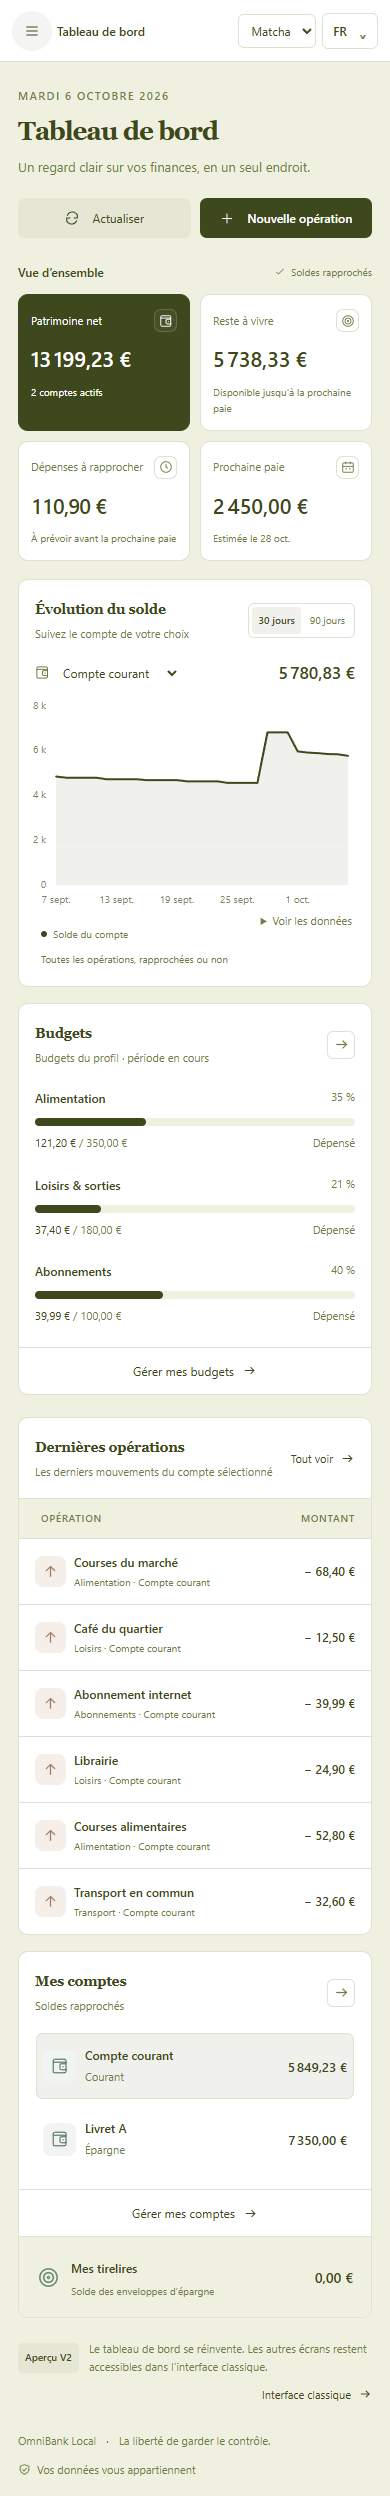
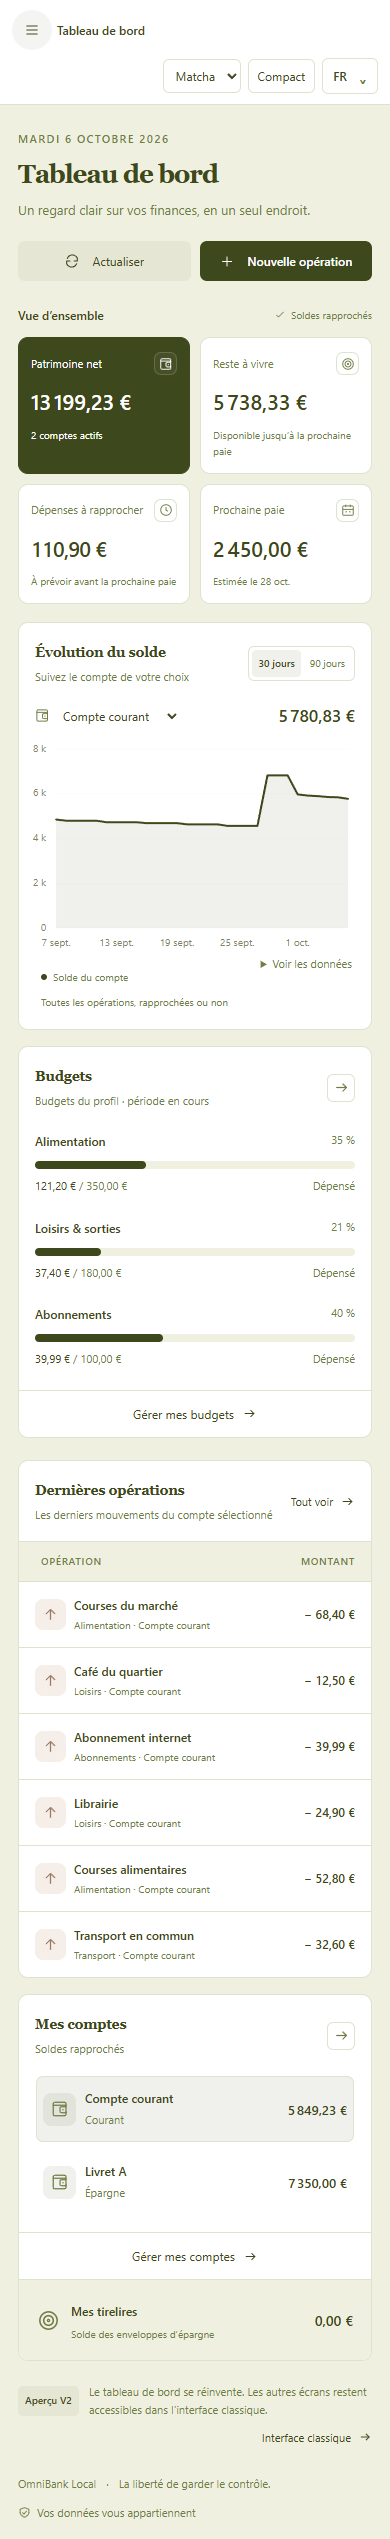
Add six Astryx themes with per-theme compact layout preferences

diff --git a/ui-v2/src/components/Shell.jsx b/ui-v2/src/components/Shell.jsx
@@ -4,16 +4,16 @@ import { Badge } from '@astryxdesign/core/Badge';
 import { Link } from '@tanstack/react-router';
 import { Icon } from './Icon';
 import { useLanguage } from '../lib/i18n';
-import { useAppTheme } from '../lib/theme';
+import { useAppTheme, themeNames } from '../lib/theme';
 import { legacyUrl } from '../lib/api';
 import s from './Shell.module.css';
 
 export function Shell({ children, profile }) {
   const { t, language, setLanguage } = useLanguage();
-  const { name, setTheme } = useAppTheme();
+  const { name, setTheme, compact, toggleCompact } = useAppTheme();
   const [menuOpen, setMenuOpen] = useState(false);
   const links = [['all_operations', 'arrows', 'transactions'], ['accounts', 'wallet', 'accounts'], ['budgets', 'target', 'budgets'], ['analytics', 'chart', 'analytics'], ['recurrences', 'calendar', 'recurrences']];
-  return <div className={s.shell}>
+  return <div className={s.shell} data-ui-density={compact ? 'compact' : 'comfortable'}>
     <a className={s.skip} href="#main">{t('skip')}</a>
     {menuOpen && <button className={s.backdrop} aria-label={t('close_menu')} onClick={() => setMenuOpen(false)} />}
     <aside className={`${s.sidebar} ${menuOpen ? s.open : ''}`} aria-label={t('navigation')}>
@@ -37,7 +37,7 @@ export function Shell({ children, profile }) {
     <div className={s.main}>
       <header className={s.topbar}>
         <div className={s.breadcrumb}><Button className={s.menu} label={menuOpen ? t('close_menu') : t('open_menu')} isIconOnly icon={<Icon name={menuOpen ? 'close' : 'menu'}/>} onClick={() => setMenuOpen(!menuOpen)} aria-expanded={menuOpen}/><span>{t('workspace')}</span><Icon name="chevron" size={13}/><strong>{t('dashboard')}</strong></div>
-        <div className={s.topActions}><select className={s.theme} aria-label={t('theme')} value={name} onChange={event => setTheme(event.target.value)}><option value="matcha">Matcha</option><option value="neutral">{t('theme_neutral')}</option></select><Badge label={t('beta')} variant="neutral"/><span className={s.local}><i/>{t('local_storage')}</span><button className={s.lang} onClick={() => setLanguage(language === 'fr' ? 'en' : 'fr')} aria-label={t('change_language')}>{language.toUpperCase()} <span>⌄</span></button></div>
+        <div className={s.topActions}><select className={s.theme} aria-label={t('theme')} value={name} onChange={event => setTheme(event.target.value)}>{themeNames.map(theme => <option key={theme} value={theme}>{theme === 'neutral' ? t('theme_neutral') : theme === 'y2k' ? 'Y2K' : theme[0].toUpperCase() + theme.slice(1)}</option>)}</select><button className={s.density} aria-pressed={compact} onClick={toggleCompact}>{t('compact')}</button><Badge label={t('beta')} variant="neutral"/><span className={s.local}><i/>{t('local_storage')}</span><button className={s.lang} onClick={() => setLanguage(language === 'fr' ? 'en' : 'fr')} aria-label={t('change_language')}>{language.toUpperCase()} <span>⌄</span></button></div>
       </header>
       <main id="main" className={s.content}>{children}</main>
       <footer className={s.footer}><span>OmniBank Local <span>·</span> {t('footer')}</span><span><Icon name="shield" size={13}/>{t('private')}</span></footer>

diff --git a/ui-v2/src/lib/theme.jsx b/ui-v2/src/lib/theme.jsx
@@ -5,13 +5,38 @@ import { neutralTheme } from '@astryxdesign/theme-neutral/built';
 import '@astryxdesign/theme-matcha/theme.css';
 import '@astryxdesign/theme-neutral/theme.css';
 
-const themes = { matcha: matchaTheme, neutral: neutralTheme };
+import { stoneTheme } from '@astryxdesign/theme-stone/built';
+import '@astryxdesign/theme-stone/theme.css';
+
+import { gothicTheme } from '@astryxdesign/theme-gothic/built';
+import '@astryxdesign/theme-gothic/theme.css';
+
+import { y2kTheme } from '@astryxdesign/theme-y2k/built';
+import '@astryxdesign/theme-y2k/theme.css';
+
+import { butterTheme } from '@astryxdesign/theme-butter/built';
+import '@astryxdesign/theme-butter/theme.css';
+
+const themes = { neutral: neutralTheme, stone: stoneTheme, gothic: gothicTheme, matcha: matchaTheme, y2k: y2kTheme, butter: butterTheme };
+export const themeNames = Object.keys(themes);
 const ThemeContext = createContext(null);
 export function ThemeProvider({ children }) {
   const [name, setName] = useState(() => {
     const saved = localStorage.getItem('omni_v2_theme');
     return Object.hasOwn(themes, saved) ? saved : 'matcha';
   });
+  const [compactThemes, setCompactThemes] = useState(() => {
+    try {
+      const saved = JSON.parse(localStorage.getItem('omni_v2_compact_themes') || '{}');
+      return Object.fromEntries(themeNames.map(key => [key, saved?.[key] === true]));
+    } catch { return {}; }
+  });
+  const compact = compactThemes[name] === true;
+  function toggleCompact() {
+    const next = { ...compactThemes, [name]: !compact };
+    localStorage.setItem('omni_v2_compact_themes', JSON.stringify(next));
+    setCompactThemes(next);
+  }
   function setTheme(value) {
     if (!Object.hasOwn(themes, value)) return;
     localStorage.setItem('omni_v2_theme', value);
@@ -19,8 +44,9 @@ export function ThemeProvider({ children }) {
   }
   const theme = themes[name];
   // Charts receive resolved light palette values; Astryx consumes its own tokens.
-  const accent = theme.tokens['--color-accent'].match(/#[0-9a-f]{6}/i)[0];
-  const border = theme.tokens['--color-border'].match(/#[0-9a-f]{6}/i)[0];
-  return <Theme theme={theme} mode="light"><ThemeContext.Provider value={{ name, setTheme, accent, border }}>{children}</ThemeContext.Provider></Theme>;
+  const color = key => theme.tokens[key].match(/#[0-9a-f]{8}|#[0-9a-f]{6}/i)[0];
+  const accent = color('--color-accent');
+  const border = color('--color-border');
+  return <Theme theme={theme} mode={name === 'gothic' ? 'dark' : 'light'}><ThemeContext.Provider value={{ name, setTheme, compact, toggleCompact, accent, border, muted: color('--color-text-secondary') }}>{children}</ThemeContext.Provider></Theme>;
 }
 export function useAppTheme() { return useContext(ThemeContext); }

diff --git a/ui-v2/src/components/Shell.module.css b/ui-v2/src/components/Shell.module.css
@@ -2,7 +2,7 @@
 .sidebar { width: 238px; flex-shrink: 0; background: var(--surface); border-right: 1px solid var(--border); display: flex; flex-direction: column; padding: 30px 18px 20px; position: fixed; inset: 0 auto 0 0; z-index: 20; overflow-y: auto; }
 .brand { display: flex; align-items: center; gap: 10px; padding: 0 13px; font-size: 21px; font-weight: 750; letter-spacing: -.8px; }
 .brand small { display: block; color: var(--muted); letter-spacing: 3px; font-size: 11px; font-weight: 600; margin-top: 3px; }
-.mark { color: white; background: var(--accent); display: grid; place-items: center; width: 39px; height: 39px; border-radius: 12px; }
+.mark { color: var(--color-on-accent); background: var(--accent); display: grid; place-items: center; width: 39px; height: 39px; border-radius: 12px; }
 .workspace { margin: 33px 0 28px; display: flex; gap: 10px; align-items: center; background: var(--canvas); border: 1px solid var(--border); border-radius: 9px; padding: 12px 10px; font-size: 14px; }
 .workspace > div { flex: 1; min-width: 0; }
 .workspace strong { display: block; overflow: hidden; text-overflow: ellipsis; white-space: nowrap; }
@@ -61,3 +61,19 @@
 
 .theme { max-width: 105px; padding: 7px 8px; font-size: 12px; border: 1px solid var(--border); border-radius: 6px; color: var(--text); background: var(--surface); cursor: pointer; }
 @media (max-width: 480px) { .topActions > :global(.astryx-badge) { display: none; } .topbar { padding-inline: 12px; } .breadcrumb { gap: 5px; font-size: 12px; } .topActions { gap: 6px; } .theme { max-width: 84px; } }
+
+.density { cursor: pointer; font-size: 12px; padding: 7px 9px; border: 1px solid var(--border); border-radius: 6px; background: var(--surface); color: var(--text); }
+.density[aria-pressed="true"] { background: var(--accent); color: var(--color-on-accent); border-color: var(--accent); }
+.shell[data-ui-density="compact"] .content { padding-block: 20px 10px; }
+.shell[data-ui-density="compact"] .sidebar { padding-block: 20px 14px; }
+.shell[data-ui-density="compact"] .workspace { margin-block: 22px 18px; padding-block: 9px; }
+.shell[data-ui-density="compact"] .nav { gap: 3px; margin-bottom: 18px; }
+.shell[data-ui-density="compact"] .nav a { padding-block: 8px; }
+.shell[data-ui-density="compact"] .topbar { min-height: 58px; height: auto; padding-block: 10px; }
+@media (max-width: 600px) {
+  .topbar { height: auto; min-height: 62px; flex-wrap: wrap; padding-block: 10px; }
+  .topActions { gap: 7px; }
+  .topActions > :global(.astryx-badge) { display: none; }
+  .breadcrumb { flex: 1; }
+}
+@media (max-width: 400px) { .topActions { width: 100%; justify-content: flex-end; } }

diff --git a/ui-v2/tests/dashboard.spec.js b/ui-v2/tests/dashboard.spec.js
@@ -123,3 +123,41 @@ test('theme selection changes Astryx and dashboard colors and survives reload', 
   await expect(page.getByRole('combobox', { name: 'Theme', exact: true })).toBeVisible();
   expect(await page.evaluate(() => document.documentElement.scrollWidth)).toBeLessThanOrEqual(320);
 });
+
+
+test('all six themes support compact layouts with independent saved preferences', async ({ page }) => {
+  const errors = [];
+  const external = [];
+  page.on('pageerror', e => errors.push(e.message));
+  page.on('request', req => { if (!req.url().startsWith('http://127.0.0.1:8436/')) external.push(req.url()); });
+  await page.goto('/v2');
+  await expect(page.getByRole('heading', { name: 'Dernières opérations' })).toBeVisible();
+  const selector = page.getByRole('combobox', { name: 'Thème', exact: true });
+  const compact = page.getByRole('button', { name: 'Compact', exact: true });
+  const metric = page.getByRole('article').first();
+  for (const theme of ['neutral', 'stone', 'gothic', 'matcha', 'y2k', 'butter']) {
+    await page.setViewportSize({ width: 1440, height: 1000 });
+    await selector.selectOption(theme);
+    await expect(page.locator('html')).toHaveAttribute('data-astryx-theme', theme);
+    await expect(compact).toHaveAttribute('aria-pressed', 'false');
+    const roomyHeight = (await metric.boundingBox()).height;
+    await compact.click();
+    await expect(compact).toHaveAttribute('aria-pressed', 'true');
+    expect((await metric.boundingBox()).height).toBeLessThan(roomyHeight);
+    await expect(page.getByRole('img', { name: 'Évolution quotidienne du solde du compte' })).toBeVisible();
+    await page.setViewportSize({ width: 320, height: 844 });
+    await expect(compact).toBeVisible();
+    expect(await page.evaluate(() => document.documentElement.scrollWidth)).toBeLessThanOrEqual(320);
+  }
+  await page.reload();
+  await expect(selector).toHaveValue('butter');
+  await expect(compact).toHaveAttribute('aria-pressed', 'true');
+  await compact.click();
+  await selector.selectOption('gothic');
+  await expect(compact).toHaveAttribute('aria-pressed', 'true');
+  await expect(page.locator('html')).toHaveAttribute('data-theme', 'dark');
+  await selector.selectOption('butter');
+  await expect(compact).toHaveAttribute('aria-pressed', 'false');
+  expect(errors).toEqual([]);
+  expect(external).toEqual([]);
+});

diff --git a/ui-v2/src/components/Dashboard.module.css b/ui-v2/src/components/Dashboard.module.css
@@ -75,9 +75,9 @@
 .account strong { font-size: 12px; display: block; font-weight: 500; overflow-wrap: anywhere; }
 .account small { color: var(--muted); font-size: 11px; display: block; margin-top: 5px; }
 .account b { margin-left: auto; font-size: 13px; font-weight: 600; white-space: nowrap; font-variant-numeric: tabular-nums; }
-.accountIcon { width: 33px; height: 33px; border-radius: 8px; display: grid; place-items: center; background: #f1f4f2; color: #63806c; flex-shrink: 0; }
+.accountIcon { width: 33px; height: 33px; border-radius: 8px; display: grid; place-items: center; background: var(--accent-soft); color: var(--muted); flex-shrink: 0; }
 .savings { background: var(--color-background-muted); border-top: 1px solid var(--border); padding: 18px; display: flex; align-items: center; gap: 11px; }
-.savingsIcon { color: #698b70; display: grid; place-items: center; }
+.savingsIcon { color: var(--muted); display: grid; place-items: center; }
 .savings strong { font-size: 12px; font-weight: 600; }
 .savings p { font-size: 10px; color: var(--muted); margin-top: 5px; line-height: 1.5; }
 .savings b { margin-left: auto; white-space: nowrap; font-size: 14px; font-weight: 600; }
@@ -145,3 +145,16 @@
   .migrationNote a { margin-left: auto; }
   .skeletonGrid { grid-template-columns: repeat(2, 1fr); }
 }
+
+:global([data-ui-density="compact"]) .pageHeading { margin-bottom: 20px; gap: 16px; }
+:global([data-ui-density="compact"]) .metrics { gap: 10px; margin-bottom: 16px; }
+:global([data-ui-density="compact"]) .metric { padding: 14px 12px; }
+:global([data-ui-density="compact"]) .metricTop { margin-bottom: 10px; }
+:global([data-ui-density="compact"]) .metric > strong { font-size: clamp(18px, 1.6vw, 24px); }
+:global([data-ui-density="compact"]) .midGrid, :global([data-ui-density="compact"]) .bottomGrid { gap: 14px; margin-bottom: 14px; }
+:global([data-ui-density="compact"]) .panelHeading { padding: 15px 16px 12px; }
+:global([data-ui-density="compact"]) .budgetList { gap: 16px; padding: 6px 16px 16px; }
+:global([data-ui-density="compact"]) .transactions td { padding-block: 9px; }
+:global([data-ui-density="compact"]) .panelFooter { padding-block: 10px; }
+:global([data-ui-density="compact"]) .account { padding-block: 8px; }
+:global([data-ui-density="compact"]) .savings { padding: 12px; }

diff --git a/ui-v2/src/components/BalanceChart.jsx b/ui-v2/src/components/BalanceChart.jsx
@@ -10,7 +10,7 @@ import s from './Dashboard.module.css';
 
 export function BalanceChart({ history, currency }) {
   const { t, date, locale, money } = useLanguage();
-  const { accent, border } = useAppTheme();
+  const { accent, border, muted } = useAppTheme();
   const definition = useMemo(() => {
     const tickDates = history.filter((_, index) => index % Math.max(1, Math.ceil(history.length / 5)) === 0).map(point => point.date);
     return defineChart({
@@ -20,11 +20,11 @@ export function BalanceChart({ history, currency }) {
         ...(history.length === 1 ? [dot(history, { x: 'date', y: 'balance', fill: accent, r: 4 })] : []),
       ],
       scales: {
-        x: { scale: scalePoint, axis: { line: false, ticks: { values: tickDates, format: value => date(value), size: 0, padding: 10 }, tickLabels: { fontSize: 10 } } },
-        y: { scale: scaleLinear, nice: true, grid: { stroke: border, strokeWidth: 1 }, axis: { line: false, ticks: { count: 4, size: 0, padding: 10, format: value => new Intl.NumberFormat(locale, { notation: 'compact' }).format(value) }, tickLabels: { fontSize: 10 } } },
+        x: { scale: scalePoint, axis: { line: false, ticks: { values: tickDates, format: value => date(value), size: 0, padding: 10 }, tickLabels: { fontSize: 10, fill: muted } } },
+        y: { scale: scaleLinear, nice: true, grid: { stroke: border, strokeWidth: 1 }, axis: { line: false, ticks: { count: 4, size: 0, padding: 10, format: value => new Intl.NumberFormat(locale, { notation: 'compact' }).format(value) }, tickLabels: { fontSize: 10, fill: muted } } },
       },
       tooltip: { use: tooltip, format: point => `${date(point.datum.date)} · ${money(point.datum.balance, currency)}` },
     });
-  }, [history, currency, locale, accent, border]);
+  }, [history, currency, locale, accent, border, muted]);
   return <div className={s.chart}><Chart definition={definition} height={211} ariaLabel={t('balance_chart')}/><details className={s.chartData}><summary>{t('chart_data')}</summary><table><thead><tr><th>{t('date')}</th><th>{t('balance')}</th></tr></thead><tbody>{history.map(point => <tr key={point.date}><td>{date(point.date)}</td><td>{money(point.balance, currency)}</td></tr>)}</tbody></table></details></div>;
 }

diff --git a/scripts/setup_ui_v2_i18n.py b/scripts/setup_ui_v2_i18n.py
@@ -4,6 +4,7 @@ from pathlib import Path
 
 ROOT = Path(__file__).resolve().parents[1]
 TRANSLATIONS = {
+    "compact": ("Compact", "Compact"),
     "theme": ("Thème", "Theme"),
     "theme_neutral": ("Neutre", "Neutral"),
     "try": ("Essayer la V2", "Try V2"),

diff --git a/ui-v2/README.md b/ui-v2/README.md
@@ -36,9 +36,16 @@ port 8434; links to classic workflows open the backend's original interface.
 
 ## Themes
 
-The header theme selector uses the official Astryx Matcha (default) and Neutral
-packages. Selection is stored locally as `omni_v2_theme` and applies to controls,
-dashboard surfaces and chart colors. Both theme stylesheets are bundled offline.
+The header selector offers official Astryx Neutral, Stone, Gothic, Matcha,
+Y2K and Butter themes. Matcha is the default. Gothic uses its dark palette.
+Theme stylesheets are bundled locally, with no external runtime requests.
+
+The **Compact** toggle reduces card spacing, sidebar rows and transaction row
+height. Its preference is saved independently for each theme in
+`omni_v2_compact_themes`; the selected theme is saved in `omni_v2_theme`.
+
+Run `node tests/capture-themes.mjs` from `ui-v2` against the isolated synthetic
+preview to capture compact screenshots for all six themes.
 
 ## Structure
 

diff --git a/docs/UI-V2-PLAN.md b/docs/UI-V2-PLAN.md
@@ -46,3 +46,14 @@ GSD entry-point bypass explicitly approved by the user on 2026-10-06.
 - Dashboard surfaces and TanStack chart colors follow the selected palette.
 - Production build and eight Chrome browser checks passed. Updated and reviewed
   desktop/mobile screenshots; no browser errors or horizontal overflow.
+
+
+## Six themes and compact layouts
+
+- Added official Stone, Gothic, Y2K and Butter alongside Neutral and Matcha.
+- Compact spacing is independently saved for each theme; Gothic uses dark mode.
+- Production build and all nine browser checks passed, including all six themes
+  at 320px and separate compact preferences surviving reloads.
+- Captured and visually inspected all six compact desktop layouts plus Gothic
+  mobile in `screenshots/ui-v2/themes/`. No external runtime requests or browser
+  errors were observed.

diff --git a/CHANGELOG.md b/CHANGELOG.md
@@ -5,7 +5,7 @@ All notable changes to this project will be documented in this file.
 ## [Unreleased]
 
 ### Added
-- Switch the V2 dashboard between Astryx Matcha (default) and Neutral themes, with a saved local preference.
+- Choose between six Astryx dashboard themes: Neutral, Stone, Gothic, Matcha, Y2K and Butter. Save a compact layout preference for each theme.
 - Opt-in V2 dashboard with clearer financial summaries, account balance charts, budgets, recent activity, and a responsive layout. Switch between V2 and the classic interface at any time.
 - French and English support throughout the new dashboard.
 
